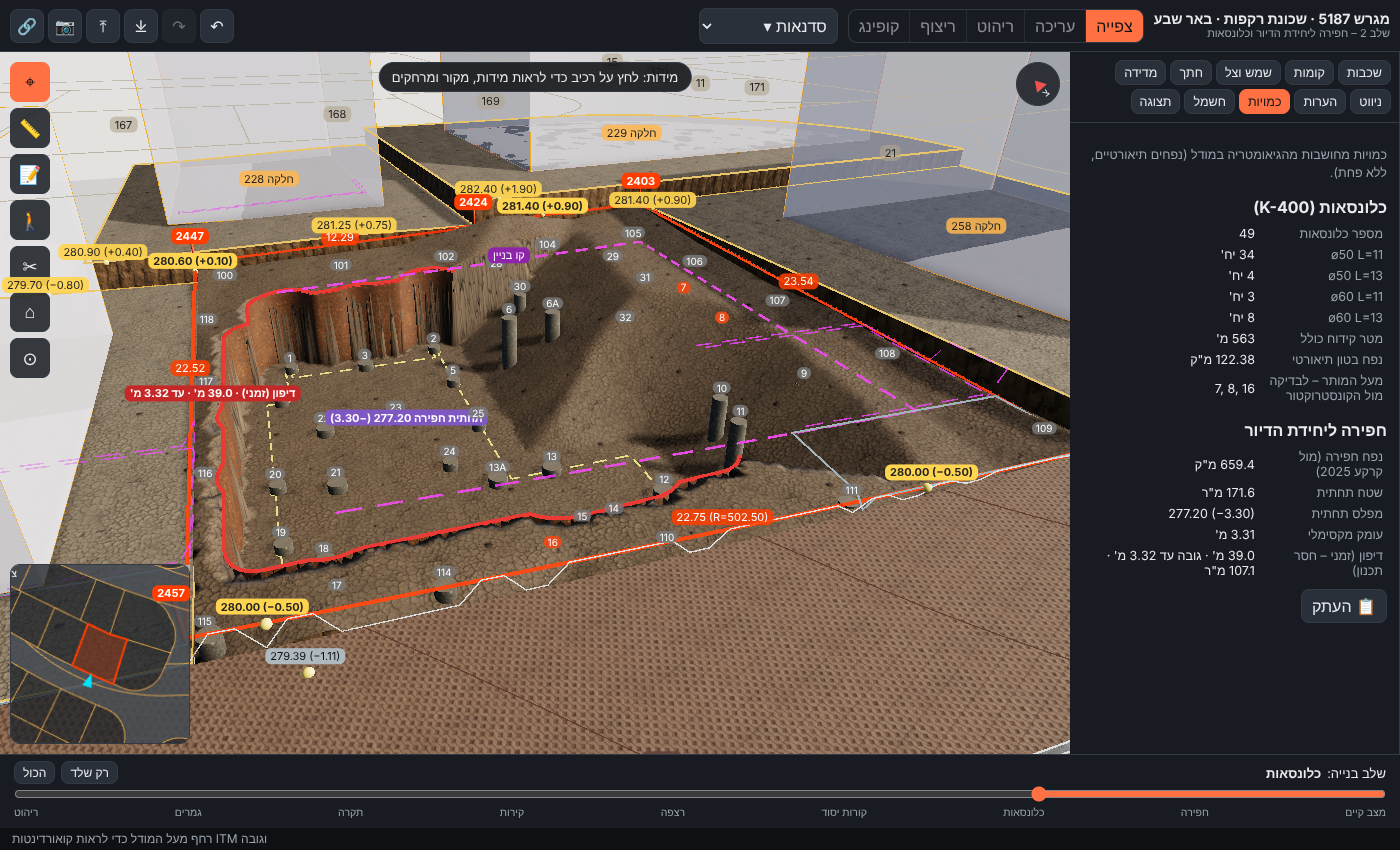
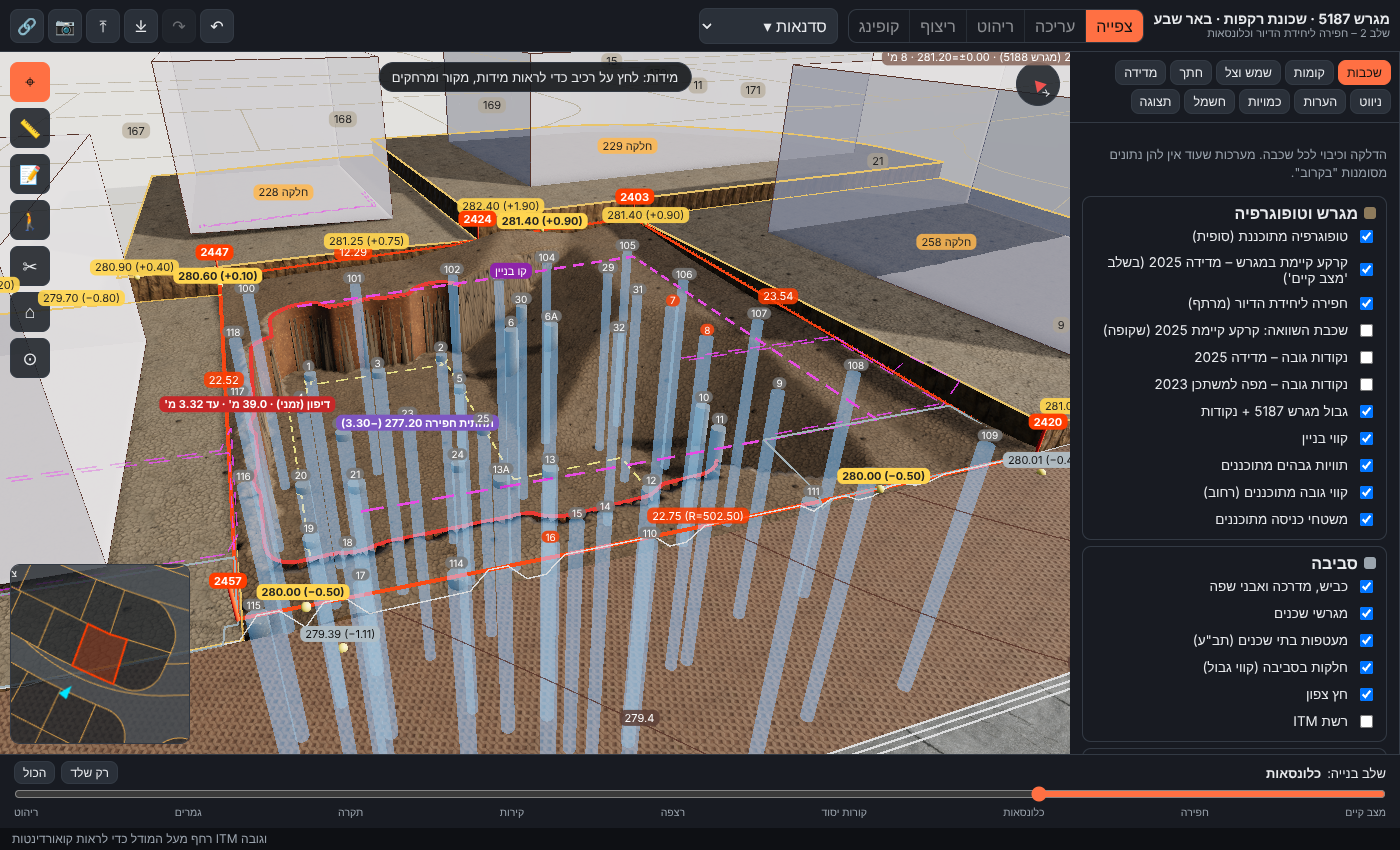
כלונסאות: תצוגת שיקוף – רואים גם כלונסאות שמתחת לפני הקרקע (למשל 7, 8)
Claude-Session: https://claude.ai/code/session_012mX9nwtok5Gvb7kjSQTNpc

diff --git a/js/geometry/piles.js b/js/geometry/piles.js
@@ -7,6 +7,8 @@ export function buildPiles(ctx) {
   const P = display.piles;
   const mat = materials.get('concrete');
   const over = materials.get('concrete').clone(); over.color.set(P.overloadTint);
+  // "x-ray" copy drawn on top of the soil, so piles hidden under the ground stay visible
+  const ghost = new THREE.MeshBasicMaterial({ color: P.ghostColor, transparent: true, opacity: P.ghostOpacity, depthTest: false, depthWrite: false });
   const stats = { count: 0, drill_m: 0, concrete_m3: 0, byType: {} };
   for (const p of data.piles.piles) {
     const headAbs = coords.H0 + p.headRel, tipAbs = coords.H0 + p.tipRel;
@@ -18,6 +20,7 @@ export function buildPiles(ctx) {
     m.position.copy(coords.toLocal(p.E, p.N, (headAbs + tipAbs) / 2));
     m.castShadow = true; m.receiveShadow = true;
     const g = new THREE.Group(); g.add(m);
+    const gm = new THREE.Mesh(geo, ghost); gm.position.copy(m.position); gm.renderOrder = 5; gm.raycast = () => {}; g.add(gm);
     const div = document.createElement('div');
     div.className = 'lbl pile' + (p.overAllowed ? ' over' : '');
     div.textContent = p.id;
